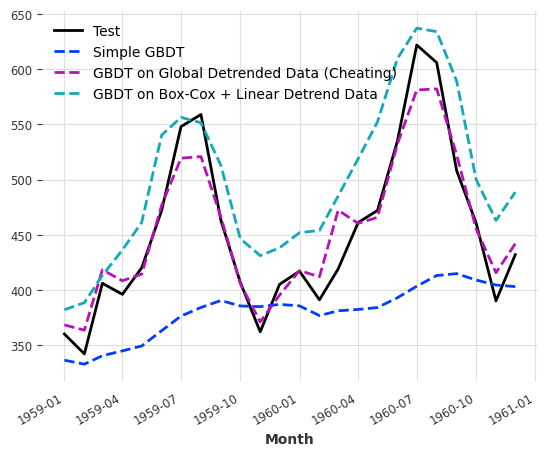
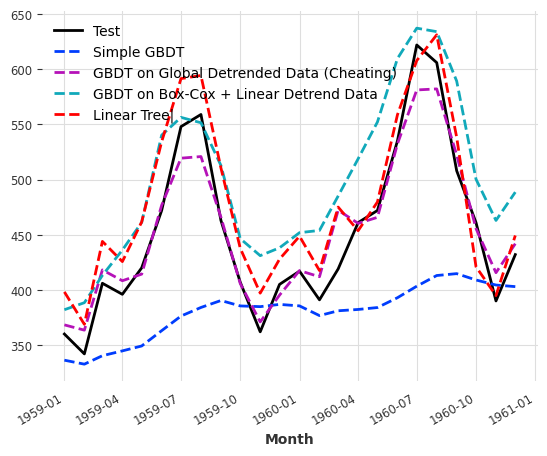
update comments on trees

diff --git a/dl/notebooks/tree_darts_boosted_tree.py b/dl/notebooks/tree_darts_boosted_tree.py
@@ -67,7 +67,7 @@ darts_air_passenger_train.plot(label="Training Data")
 darts_air_passenger_test.plot(label="Test Data")
 
 # + [markdown] id="4lKC6b3SwYGq"
-# ### First GBDT Model
+# ### First Random Forest Model
 
 # + id="rXKC8hkQwYGq"
 ap_horizon = len(darts_air_passenger_test)
@@ -173,10 +173,10 @@ gbdt_ap_seasonal.fit(darts_air_passenger_seasonal_train)
 # + colab={"base_uri": "https://localhost:8080/", "height": 462} id="x-Wluyz6wYGs" outputId="d275a304-5128-434c-d706-409de13cb046"
 darts_air_passenger_train.plot(label="Train")
 darts_air_passenger_test.plot(label="Test")
-pred_gbdt_ap_seasonal = gbdt_ap_seasonal.predict(
+pred_rf_ap_seasonal = gbdt_ap_seasonal.predict(
     n=ap_horizon
 ) * darts_air_passenger_trend.drop_before(119)
-pred_gbdt_ap_seasonal.plot(label="Trend * Predicted Seasonal Component", linestyle="--")
+pred_rf_ap_seasonal.plot(label="Trend * Predicted Seasonal Component", linestyle="--")
 
 # + [markdown] id="m2pPeXiSwYGs"
 # This indiates that the performance of trees on out of sample predictions if we only predict on the cycle part of the series. In a real world case, however, we have to predict the trend accurately for this to work. To better reconstruct the trend, there are also tricks like [Box-Cox transformations](../time-series/timeseries-data.box-cox.md).
@@ -280,16 +280,43 @@ pred_gbdt_bc_lt = air_passenger_boxcox.inverse_transform(
 )
 pred_gbdt_bc_lt.plot(label="Box-Cox + Linear Detrend Predictions", linestyle="--")
 
+# + [markdown] id="5mPqMkH1R7jm"
+# ## Linear Tree Horizon
+
+# + [markdown] id="UoUtnIELWUWr"
+# Detrending is not the only possibility. LightGBM implements a linear tree version of the base learners.
+
+# + id="3UQWRwhQSK91"
+ap_gbdt_linear_tree_params = dict(
+    lags=52, output_chunk_length=ap_horizon, linear_tree=True
+)
+
+# + id="LFds5KtVwYGy"
+gbdt_linear_tree_ap = LightGBMModel(**ap_gbdt_linear_tree_params)
+
+# + colab={"base_uri": "https://localhost:8080/"} id="ns2SQ8sbSTpm" outputId="445e0efb-2e12-4ee9-9a60-5a012aa5a083"
+gbdt_linear_tree_ap.fit(darts_air_passenger_train)
+
+# + colab={"base_uri": "https://localhost:8080/", "height": 462} id="Z4hJVSv_SWrW" outputId="fac4c8db-6e59-4609-b8be-feb8485bdf06"
+darts_air_passenger_train.plot(label="Train")
+darts_air_passenger_test.plot(label="Test")
+pred_gbdt_linear_tree_ap = gbdt_linear_tree_ap.predict(n=ap_horizon)
+pred_gbdt_linear_tree_ap.plot(label="Linear Tree Prediction", linestyle="--")
+
+# + id="HHAeUz4zSs-5"
+
+
 # + [markdown] id="76W-UUf4wYGt"
 # ### Metrics
 
-# + colab={"base_uri": "https://localhost:8080/", "height": 473} id="zUUbjb9NwYGt" outputId="9365d640-c66c-45de-ce81-f3e1f4132fea"
+# + colab={"base_uri": "https://localhost:8080/", "height": 473} id="zUUbjb9NwYGt" outputId="64dcb15f-411a-4da2-bb03-0b5e6f30fcbb"
 darts_air_passenger_test.plot(label="Test")
 pred_gbdt_ap.plot(label="Simple GBDT", linestyle="--")
-pred_gbdt_ap_seasonal.plot(
+pred_rf_ap_seasonal.plot(
     label="GBDT on Global Detrended Data (Cheating)", linestyle="--"
 )
 pred_gbdt_bc_lt.plot(label="GBDT on Box-Cox + Linear Detrend Data", linestyle="--")
+pred_gbdt_linear_tree_ap.plot(label="Linear Tree|", linestyle="--", color="r")
 
 # + id="cjgcUttEwYGt"
 benchmark_metrics = [
@@ -298,6 +325,7 @@ benchmark_metrics = [
     metrics.mse,
     metrics.rmse,
     metrics.smape,
+    metrics.r2_score,
 ]
 
 
@@ -321,12 +349,12 @@ def benchmark_predictions(
     return results
 
 
-# + colab={"base_uri": "https://localhost:8080/", "height": 520} id="_Y6jm6Y9wYGy" outputId="f684e709-7e48-423b-d8de-013e272bdb1e"
+# + colab={"base_uri": "https://localhost:8080/", "height": 802} id="_Y6jm6Y9wYGy" outputId="265a9e2a-8ea6-4ed4-eb3e-12abc3773cf8"
 benchmark_results = []
 
 for i, pred in zip(
-    ["simple_gbdt", "detrended_cheating", "boxcox_linear_trend"],
-    [pred_gbdt_ap, pred_gbdt_ap_seasonal, pred_gbdt_bc_lt],
+    ["simple_gbdt", "detrended_cheating", "boxcox_linear_trend", "linear_tree"],
+    [pred_gbdt_ap, pred_rf_ap_seasonal, pred_gbdt_bc_lt, pred_gbdt_linear_tree_ap],
 ):
     benchmark_results += benchmark_predictions(
         series_true=darts_air_passenger_test,
@@ -338,7 +366,7 @@ for i, pred in zip(
 df_benchmark_metrics = pd.DataFrame(benchmark_results)
 df_benchmark_metrics
 
-# + colab={"base_uri": "https://localhost:8080/", "height": 1000} id="n4XHYPvRwYGy" outputId="cfc06499-8b89-4bf8-af9d-4fabb3ef3a74"
+# + colab={"base_uri": "https://localhost:8080/", "height": 977} id="n4XHYPvRwYGy" outputId="73e11be0-b6ce-4279-fc1f-9430434d3c2d"
 metric_chart_grid = sns.FacetGrid(
     df_benchmark_metrics,
     col="metric",
@@ -356,4 +384,4 @@ metric_chart_grid.map(
 #     _ = axes.set_xticklabels(axes.get_xticklabels(), rotation=90)
 # metric_chart_grid.fig.tight_layout(w_pad=1)
 
-# + id="LFds5KtVwYGy"
+# + id="tsk_WtuCW2JD"

diff --git a/dl/notebooks/tree_darts_random_forest.py b/dl/notebooks/tree_darts_random_forest.py
@@ -305,6 +305,7 @@ benchmark_metrics = [
     metrics.mse,
     metrics.rmse,
     metrics.smape,
+    metrics.r2_score,
 ]
 
 

diff --git a/dl/trees/tree.darts.md b/dl/trees/tree.darts.md
@@ -1,6 +1,6 @@
 # Forecasting with Trees Using Darts
 
-Darts provides wrappers for tree-based models.
+Darts provides wrappers for tree-based models. In this section, we benchmark random forest and gradient-boosting decison tree (GBDT) on the famous [air passenger dataset]((https://www.kaggle.com/datasets/rakannimer/air-passengers)). Through the benchmarks, we will see the key advantage and disadvantage of tree-based models in forecasting.
 
 !!! note "Just Run It"
     The notebooks created to produce the results in this section can be found [here for random forest :material-language-python:](../../notebooks/tree_darts_random_forest) and [here for gbdt :material-language-python:](../../notebooks/tree_darts_boosted_tree).
@@ -61,7 +61,7 @@ Finally, we fit a random forest model on the detrended data, i.e., Box-Cox trans
 ![box cox + linear trend](../assets/tree.darts/tree-darts-ap-rf-boxcox-linear-trend-outofsample.png)
 
 
-### Comparisons of the Three Models
+### Comparisons of the Three Random Forest Models
 
 Observations by eyes showed that cheating leads to the best result, followed by a simple linear detrend model.
 
@@ -79,3 +79,10 @@ Similar behavior is also observed for gradient-boosted decision trees (GBDT).
 ![Comparison](../assets/tree.darts/tree-darts-ap-gbdt-comparisons.png)
 
 ![Metric comparison](../assets/tree.darts/tree-darts-ap-gbdt-metric-comparisons.png)
+
+## Trees are Powerful
+
+Up to this point, we may get the feeling that trees are not the best choices for forecasting. As a matter of fact, trees are widely used in many competitions and have achieved a lot in forecasting[@Januschowski2022-qr]. Apart from being simple and robust, trees can also be made probabilistic. Trees are also attractive as our first model to try because they usually already work quite well out of the box[^lightgbm_params].
+
+
+[^lightgbm_params]: "Out of the box" sounds like something easy to do. However, if one ever reads the list of parameters of LightGBM, the thought of "easy" will immediately diminish.
